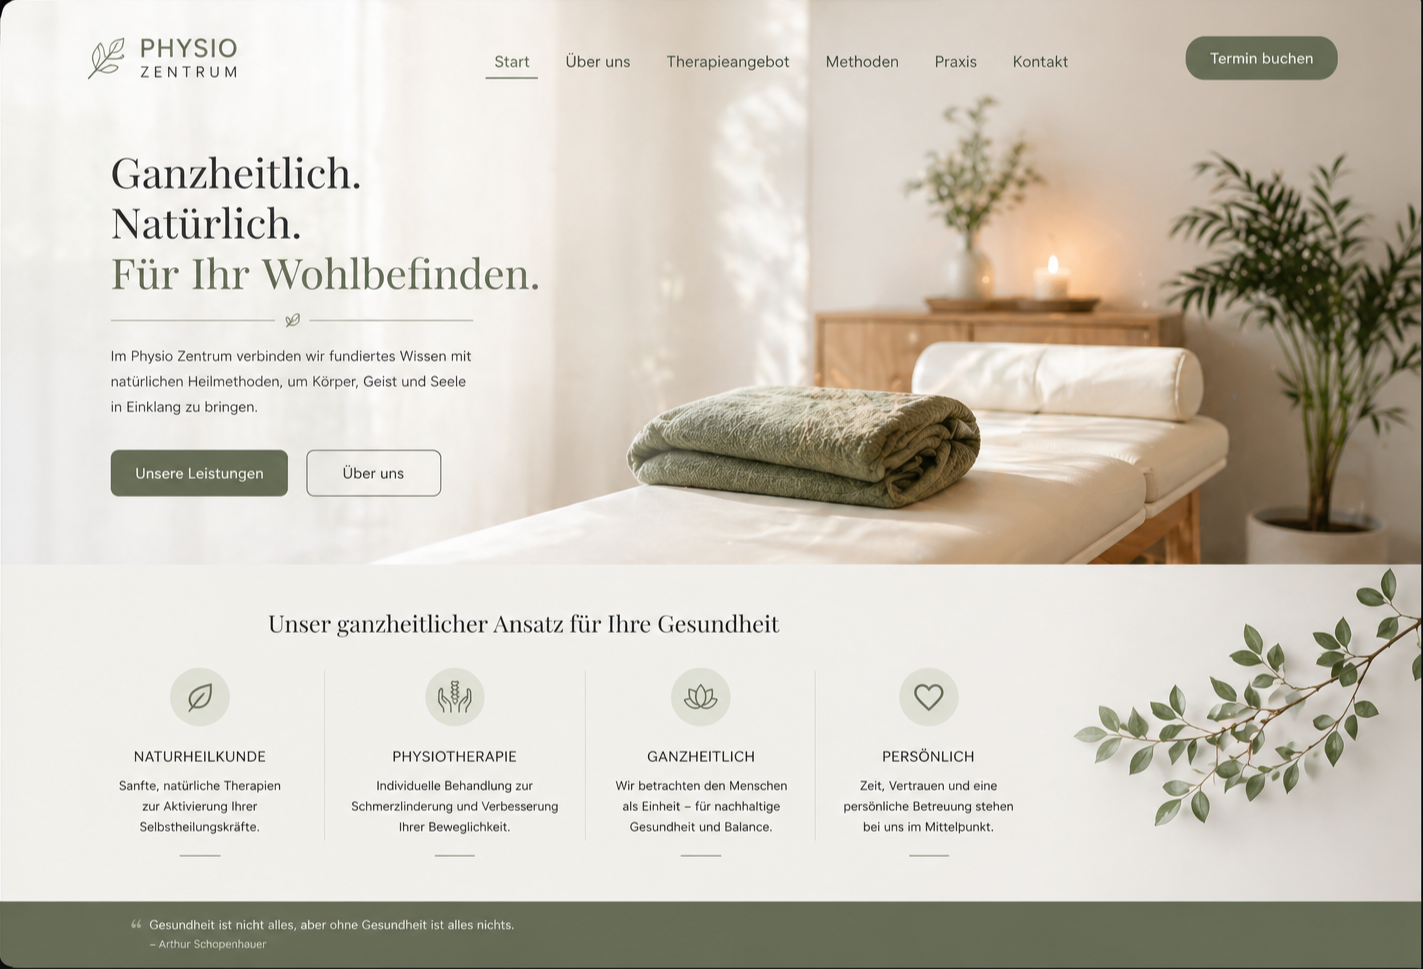
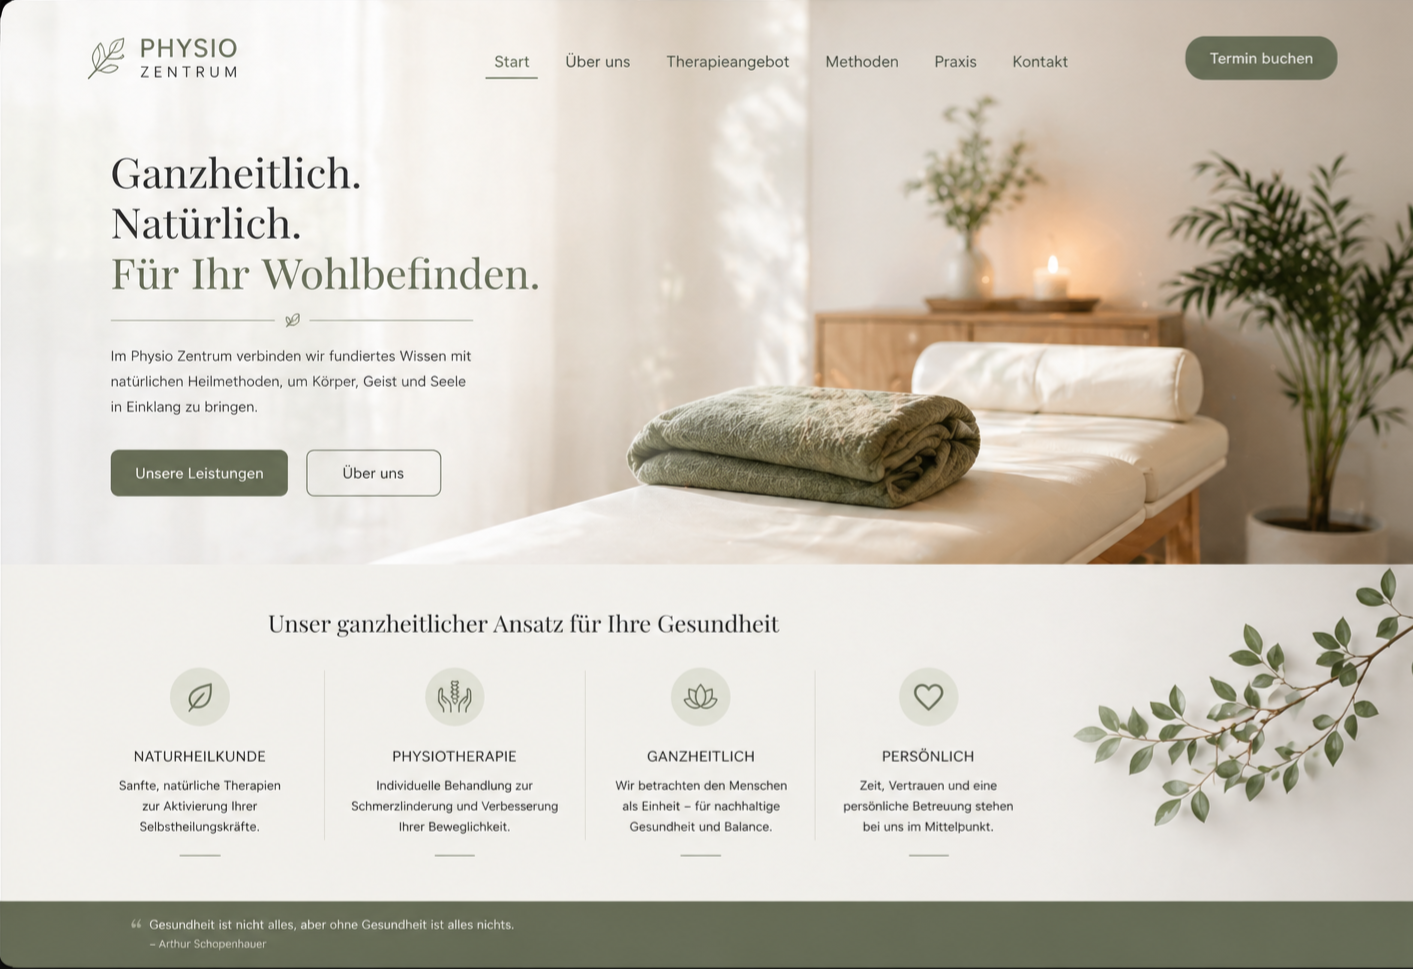
feat: update project slider - new images, hover zoom, arrow spacing

diff --git a/src/routes/+page.svelte b/src/routes/+page.svelte
@@ -773,7 +773,7 @@
 	.proj-light { background: #f2f0ec; padding: 6rem 0; }
 	.proj-light .section-header { margin-bottom: 3rem; }
 	.proj-wide {
-		max-width: 1420px; margin: 0 auto; padding: 0 2rem; position: relative;
+		max-width: 1420px; margin: 0 auto; padding: 0 5rem; position: relative;
 	}
 	.proj-stage { position: relative; display: flex; align-items: center; }
 	.proj-clip {
@@ -789,14 +789,16 @@
 		transition: transform 0.35s cubic-bezier(0.16,1,0.3,1);
 		background: none; border: none; padding: 0; cursor: pointer;
 	}
-	.proj-slide:hover { transform: translateY(-6px); }
+
 
 	.proj-img-wrap { position: relative; overflow: hidden; border-radius: 8px; }
 	.proj-img-wrap img { width: 100%; height: auto; object-fit: contain; display: block;
 		box-shadow: 0 8px 32px rgba(14,14,22,0.12);
-		transition: transform 0.5s cubic-bezier(0.16,1,0.3,1);
+		transition: box-shadow 0.35s ease, transform 0.35s ease;
 	}
-	.proj-slide:hover .proj-img-wrap img { transform: scale(1.01); }
+	.proj-slide:hover .proj-img-wrap img {
+		transform: scale(1.04);
+	}
 	.proj-footer {
 		display: flex; align-items: center; justify-content: space-between;
 		margin-top: 1.75rem; gap: 1rem;
@@ -816,7 +818,7 @@
 	.proj-title { color: #0e0e16; }
 	.proj-title em { color: #1a4a6b; }
 	.proj-arrow {
-		position: absolute; top: calc(50% - 1.75rem); z-index: 10;
+		position: absolute; top: 50%; z-index: 10;
 		width: 44px; height: 44px; border-radius: 50%;
 		background: #fff; backdrop-filter: blur(8px);
 		border: 1px solid rgba(14,14,22,0.08);
@@ -826,8 +828,8 @@
 		transition: all 0.25s cubic-bezier(0.16,1,0.3,1);
 		transform: translateY(-50%);
 	}
-	.proj-prev { left: -16px; }
-	.proj-next { right: -16px; }
+	.proj-prev { left: -60px; }
+	.proj-next { right: -60px; }
 	.proj-arrow:hover {
 		box-shadow: 0 4px 24px rgba(14,14,22,0.18), 0 12px 40px rgba(14,14,22,0.12);
 		transform: translateY(-50%) scale(1.1);
